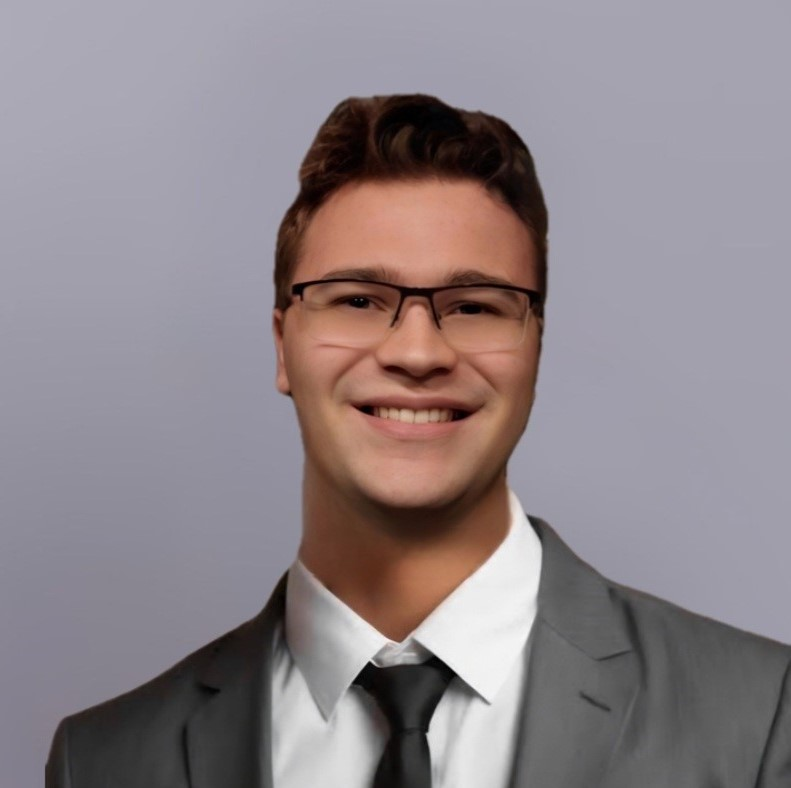
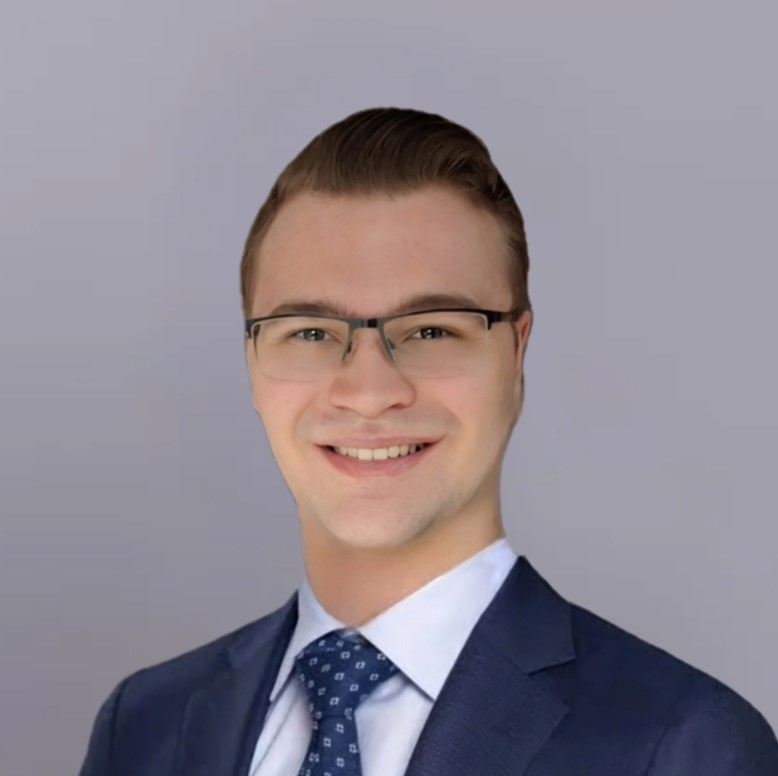
Pictures

diff --git a/style.css b/style.css
@@ -334,20 +334,6 @@ section{
     width: 400px;
     margin: auto 0;
 }
-
-.about__pic-container img {
-    border-radius: 50%;
-    overflow: hidden;
-    box-shadow: 0 4px 8px rgba(0, 0, 0, 0.4),
-                0 7px 20px rgba(0, 0, 0, 0.2);
-    transition: transform 0.3s ease;
-}
-
-.about__pic-container img:hover {
-    transform: translateY(-5px) scale(1.05);
-    box-shadow: 0 8px 16px rgba(0, 0, 0, 0.4),
-                0 12px 24px rgba(0, 0, 0, 0.2);
-}
   
   .details-container {
     padding: 1.5rem;

diff --git a/index.html b/index.html
@@ -66,7 +66,7 @@
     <div class="section-container">
         <div class="about__pic-container">
         <img
-            src="./assets/edu.png"
+            src="./assets/contact.jpg"
             alt="Profile picture"
             class="about-pic"
         />
